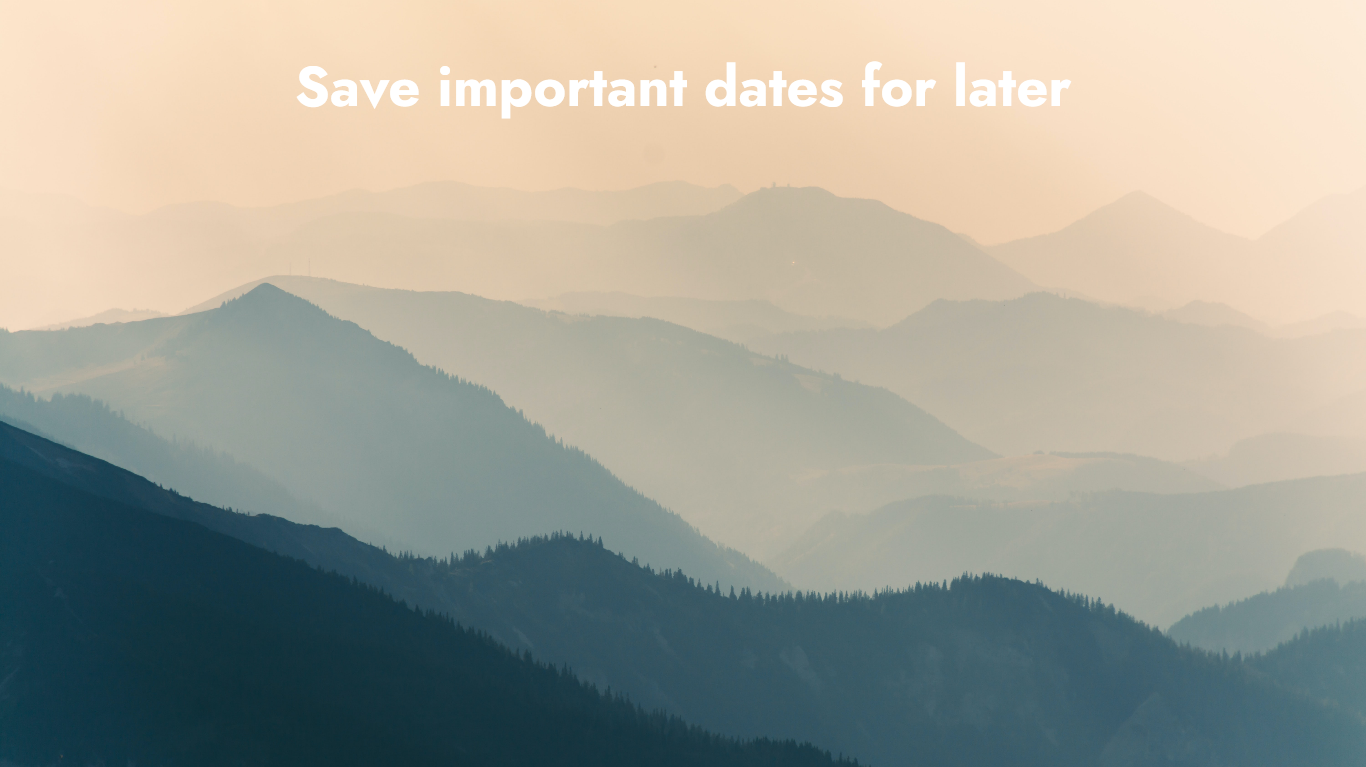
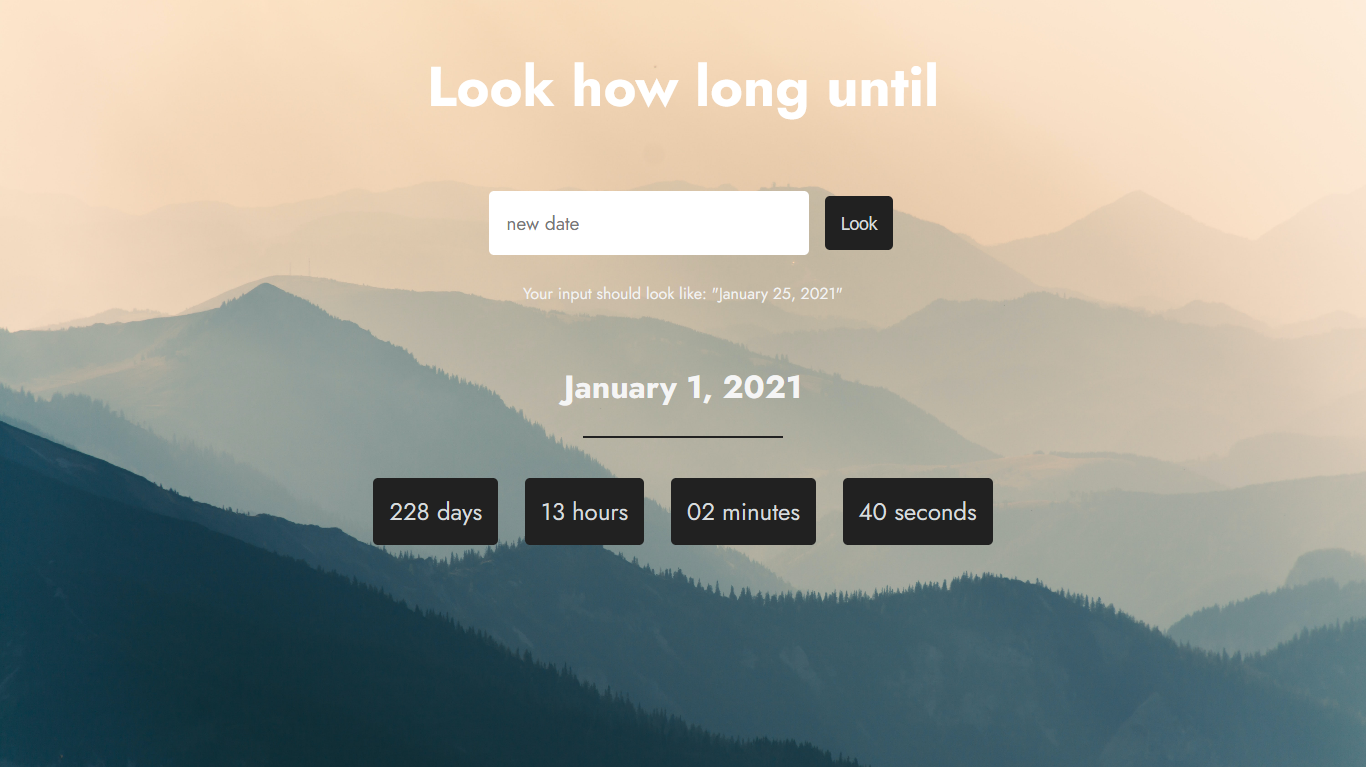
Logic Added
- Project logic added
- Functions created & improved.
- Style modified.

diff --git a/src/components/Saver.jsx b/src/components/Saver.jsx
@@ -1,29 +1,54 @@
 import React, { Component } from "react";
 
 export class Saver extends Component {
-  //const thisDate = Date.parse(dateToSave) - Date.parse(new Date());
+  constructor(props) {
+    super(props);
+    this.state = {
+      days: 0,
+      hours: 0,
+      minutes: 0,
+      seconds: 0,
+    };
+  }
 
-  //const days = Math.floor(thisDate / (1000 * 60 * 60 * 24));
-  //const hours = Math.floor((thisDate / (1000 * 60 * 60)) % 24);
-  //const minutes = Math.floor((thisDate / 1000 / 60) % 60);
+  componentWillMount() {
+    this.CalculateDate(this.props.dateToSave);
+  }
+
+  componentDidMount() {
+    setInterval(() => this.CalculateDate(this.props.dateToSave), 1000);
+  }
+
+  CalculateDate(dateToSave) {
+    const thisDate = Date.parse(dateToSave) - Date.parse(new Date());
+    const days = Math.floor(thisDate / (1000 * 60 * 60 * 24));
+    const hours = Math.floor((thisDate / (1000 * 60 * 60)) % 24);
+    const minutes = Math.floor((thisDate / 1000 / 60) % 60);
+    const seconds = Math.floor((thisDate / 1000) % 60);
+
+    this.setState({
+      days,
+      hours,
+      minutes,
+      seconds,
+    });
+  }
+
+  Zeros(num) {
+    return num < 10 ? '0' + num : num
+  }
 
   render() {
     return (
       <div className="Saver">
-        <form>
-          <input type="text" className="Input" />
-          <button className="Button">Save</button>
-        </form>
-        <div className="helper">
-          Your input should look like: "January 25, 2021"
-        </div>
         <div className="Date">
-          <h2>January 1, 2020</h2>
+          <h2>{this.props.dateToSave}</h2>
           <hr />
           <div className="Details">
-            <div className="time">days</div>
-            <div className="time">hours</div>
-            <div className="time">minutes</div>
+            <div className="time">{this.Zeros(this.state.days)} days</div>
+            <div className="time">{this.Zeros(this.state.hours)} hours</div>
+            <div className="time">{this.Zeros(this.state.minutes)} minutes</div>
+            <div className="time">{this.Zeros(this.state.seconds)} seconds</div>
           </div>
         </div>
       </div>

diff --git a/src/components/Main.jsx b/src/components/Main.jsx
@@ -3,11 +3,40 @@ import "../styles/Main.css";
 import Saver from "./Saver";
 
 export class Main extends Component {
+  constructor(props) {
+    super(props);
+    this.state = {
+      dateToSave: "January 1, 2021",
+      newDate: "",
+    };
+  }
+
+  UpdateDate(e) {
+    e.preventDefault();
+    this.setState({
+      dateToSave: this.state.newDate,
+    });
+  }
+
   render() {
     return (
       <div className="Container">
         <h1 className="Title">Look how long until</h1>
-        <Saver/>
+        <form>
+          <input
+            onChange={(e) => this.setState({ newDate: e.target.value })}
+            type="text"
+            placeholder="new date"
+            className="Input"
+          />
+          <button onClick={(e) => this.UpdateDate(e)} className="Button">
+            Look
+          </button>
+        </form>
+        <div className="helper">
+          Your input should look like: "January 25, 2021"
+        </div>
+        <Saver dateToSave={this.state.dateToSave} />
       </div>
     );
   }

diff --git a/src/styles/Main.css b/src/styles/Main.css
@@ -103,6 +103,12 @@ hr {
   border-radius: 10px;
 }
 
+.Details {
+  display: flex;
+  margin: 0 20rem;
+  justify-content: space-between;
+}
+
 /* mobile styles */
 @media screen and (max-width: 420px) {
 
